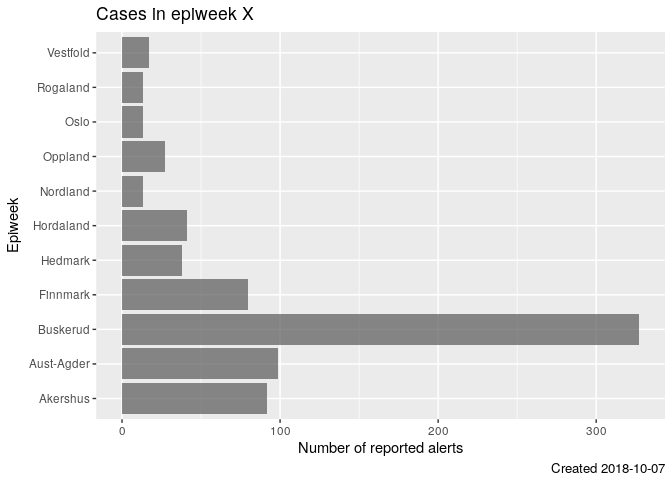
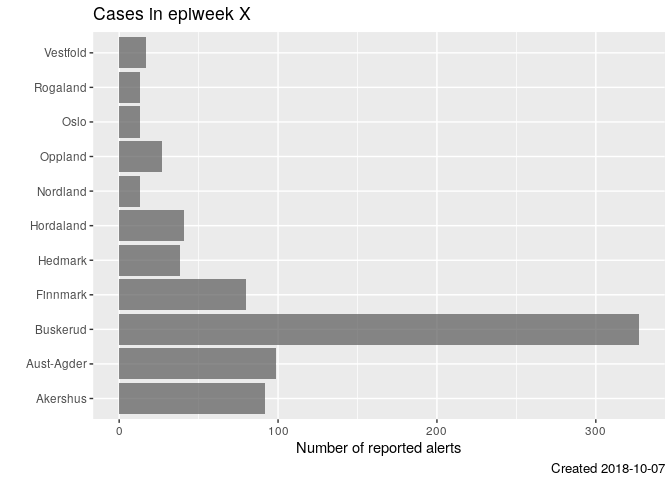
Updating graphs in analytics documentatino

diff --git a/Documentation/Projects/Analytics/fakedata/report.md b/Documentation/Projects/Analytics/fakedata/report.md
@@ -1,0 +1,134 @@
+Epicurve by week
+----------------
+
+Here we display a weekly `epicurve` (the epidemiological term for a time
+series graph showing the number of reported cases on the y-axis and time
+on the x-axis).
+
+Important to note:
+
+-   We display `year-isoweek` on the x-axis
+-   Weeks with zero cases must be displayed
+
+![](report_files/figure-markdown_strict/unnamed-chunk-1-1.png)
+
+Epicurve by day
+---------------
+
+Here we display a daily `epicurve`.
+
+Important to note:
+
+-   Unclear the best way to display date on the x-axis
+-   Days with zero cases must be displayed
+
+![](report_files/figure-markdown_strict/unnamed-chunk-2-1.png)
+
+Epicurve by week dodged by age
+------------------------------
+
+Here we display a weekly `epicurve` with two columns for each week,
+showing the ages side-by-side.
+
+Important to note:
+
+-   We display `year-isoweek` on the x-axis
+-   Weeks with zero cases must be displayed
+
+![](report_files/figure-markdown_strict/unnamed-chunk-3-1.png)
+
+Epicurve by day dodged by age
+-----------------------------
+
+Here we display a daily `epicurve` with two columns for each day,
+showing the ages side-by-side.
+
+Important to note:
+
+-   Unclear the best way to display date on the x-axis
+-   Days with zero cases must be displayed
+
+![](report_files/figure-markdown_strict/unnamed-chunk-4-1.png)
+
+Age and sex distribution over different time frames
+---------------------------------------------------
+
+-   We display the number of cases, split by age/sex on the x-axis
+-   We need the ability to display different time frames (e.g. per week,
+    last week, over multiple weeks)
+
+![](report_files/figure-markdown_strict/unnamed-chunk-5-1.png)
+
+Weekly epicurves by age/sex
+---------------------------
+
+Here we display four weekly epicurves, one for each age/sex combination.
+
+Important to note:
+
+-   We display `year-isoweek` on the x-axis
+-   Weeks with zero cases must be displayed
+-   Y-axis remains the same height for all panels, to allow for easy
+    comparison
+
+![](report_files/figure-markdown_strict/unnamed-chunk-6-1.png)
+
+Weekly epicurves by geographical area
+-------------------------------------
+
+Here we display multiple weekly epicurves, one for each geographical
+area.
+
+Important to note:
+
+-   We should probably be able to choose the granularity of geographical
+    area (region/district/village)
+-   We display `year-isoweek` on the x-axis
+-   Weeks with zero cases must be displayed
+-   Y-axis remains the same height for all panels, to allow for easy
+    comparison (this should probably be a toggle?)
+-   Very important: We should also implement one version where the
+    outcome is:
+    `(number of reported cases)/(estimation population)*10000` (i.e.
+    number of reported cases per 10.000 population).
+
+![](report_files/figure-markdown_strict/unnamed-chunk-7-1.png)
+
+Map by geographical area
+------------------------
+
+Here we display a map with categorized number of cases.
+
+Important to note:
+
+-   We should probably be able to choose the granularity of geographical
+    area (region/district/village)
+-   We should be able to change the time-frame
+-   Not reporting regions should be highlighted
+-   The graphing/outcome should be categorical NOT a continuous
+    gradient. Probably no more than 4 categories.
+-   Very important: We should also implement one version where the
+    outcome is:
+    `(number of reported cases)/(estimation population)*10000` (i.e.
+    number of reported cases per 10.000 population).
+
+![](report_files/figure-markdown_strict/unnamed-chunk-8-1.png)
+
+Barcharts by district
+---------------------
+
+This is very similar to the above map, but allows for a more nuanced
+view of the numbers.
+
+Important to note:
+
+-   We should probably be able to choose the granularity of geographical
+    area (region/district/village)
+-   We should be able to change the time-frame
+-   The graphing/outcome should be CONTINUOUS
+-   Very important: We should also implement one version where the
+    outcome is:
+    `(number of reported cases)/(estimation population)*10000` (i.e.
+    number of reported cases per 10.000 population).
+
+![](report_files/figure-markdown_strict/unnamed-chunk-9-1.png)
